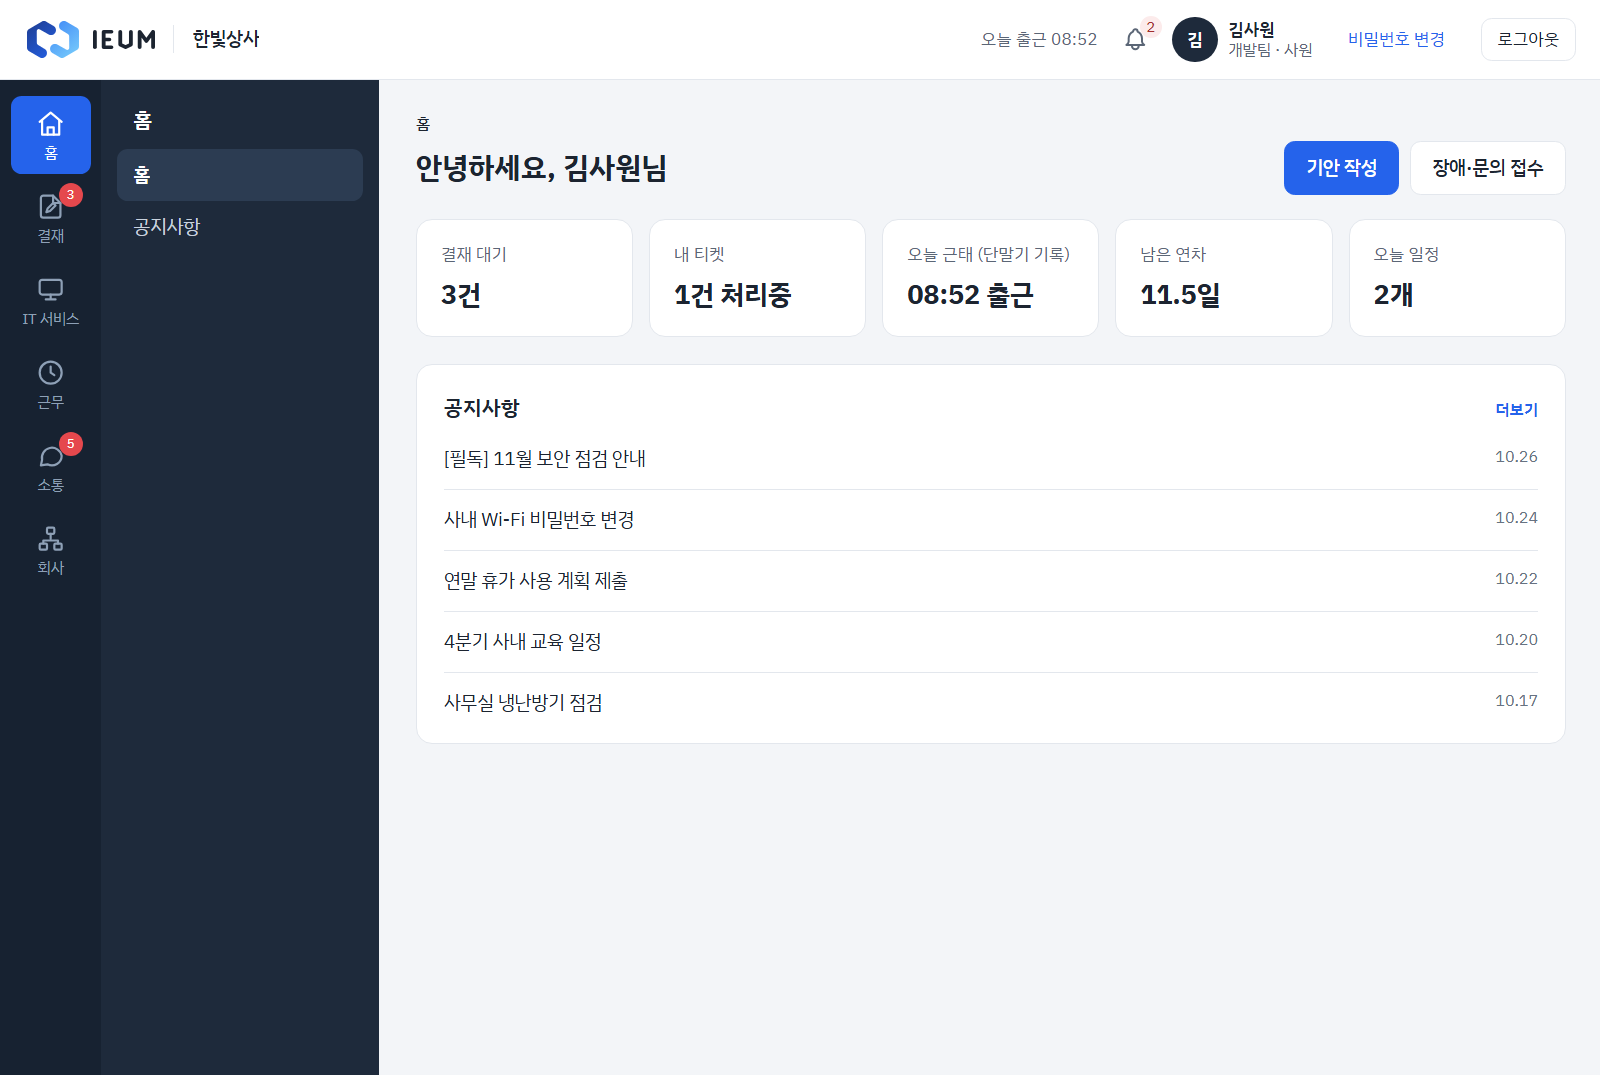
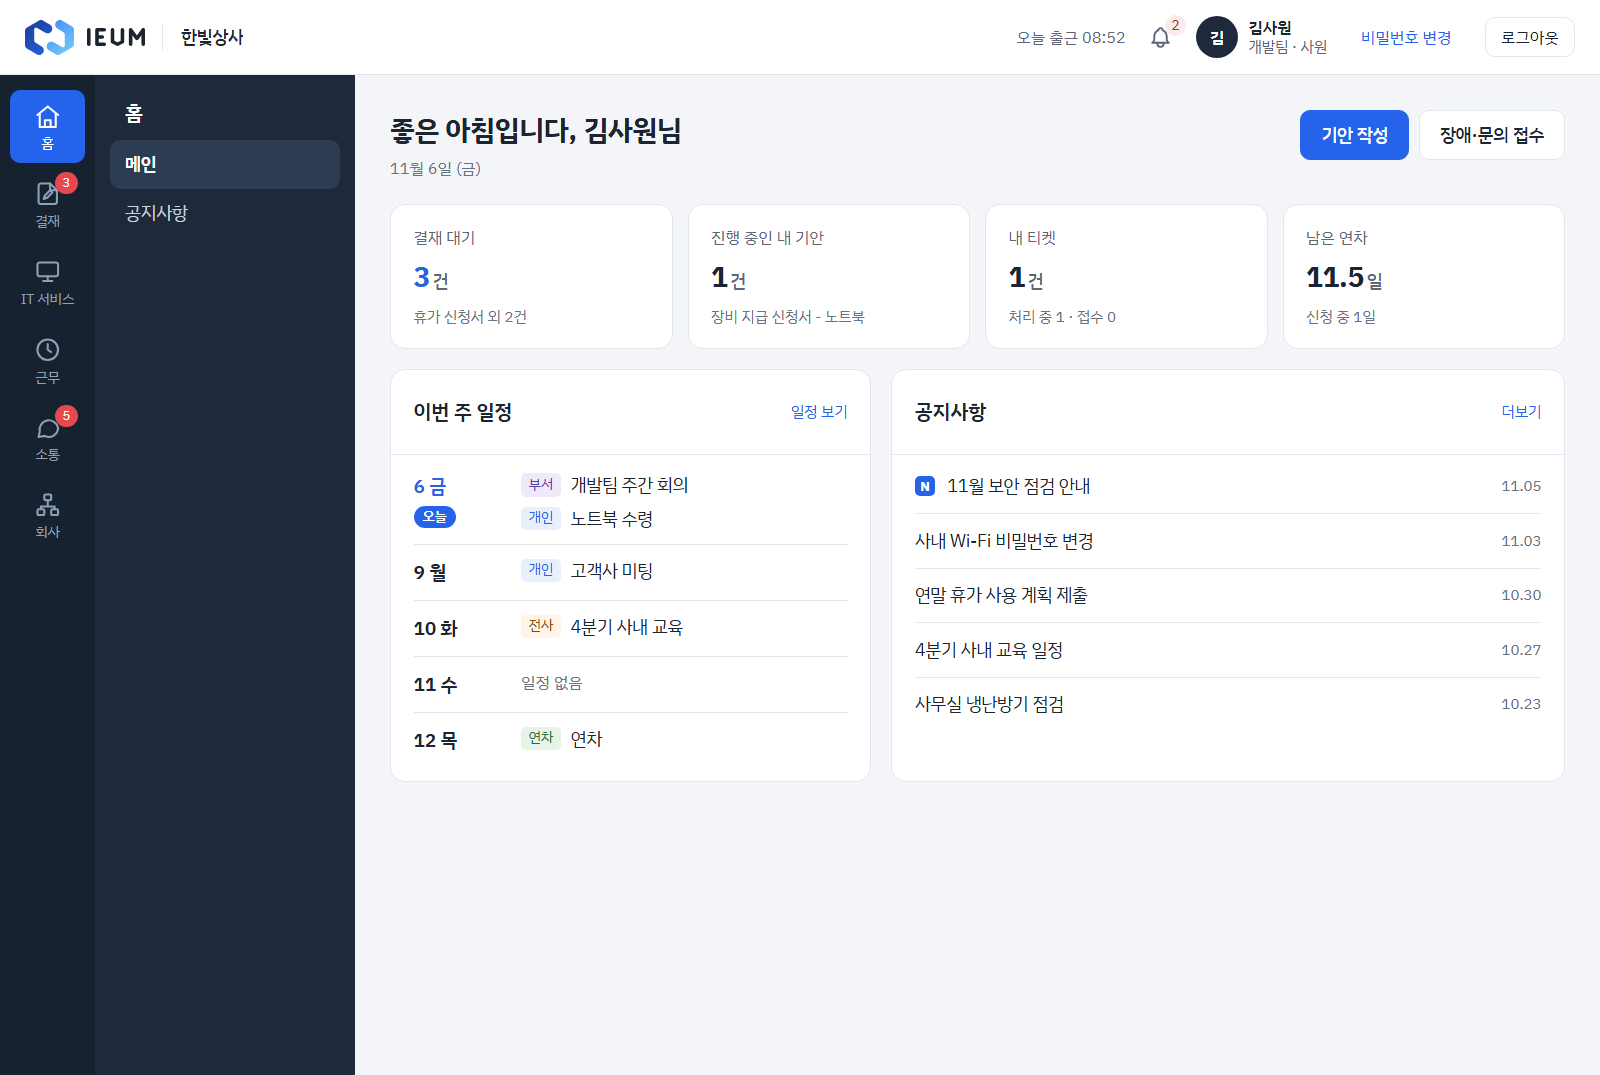
소개 페이지 그림을 지금 홈 화면으로 교체, 서비스 워커 캐시 v42
- hero-app.png: 현재 홈(결재 대기·진행 중인 내 기안·내 티켓·남은 연차, 이번 주 일정, 공지) 시연 자료로 다시 찍음
- 그림이 캐시 목록에 있어 CACHE를 v41에서 v42로 올림

diff --git a/src/main/webapp/resources/js/service-worker.js b/src/main/webapp/resources/js/service-worker.js
@@ -3,7 +3,7 @@
 // 사이트 맨 위 경로(/<컨텍스트>/service-worker.js)로 내려줘야 앱 전체를 맡는다.
 //   servlet-context.xml 참고: <resources mapping="/service-worker.js" location="/resources/js/" />
 // CSS·JS를 바꾸면 CACHE 이름을 올린다. 안 올리면 설치한 앱에 예전 파일이 남을 수 있다.
-const CACHE = 'ieum-shell-v41';
+const CACHE = 'ieum-shell-v42';
 
 // 이 파일 위치(/<컨텍스트>/) 기준 경로. JSP 화면은 로그인이 필요하고 내용이 바뀌므로 넣지 않는다.
 // 글꼴(resources/lib/ 의 woff)은 빠져 있어도 설치가 깨지지 않게 넣지 않는다.
